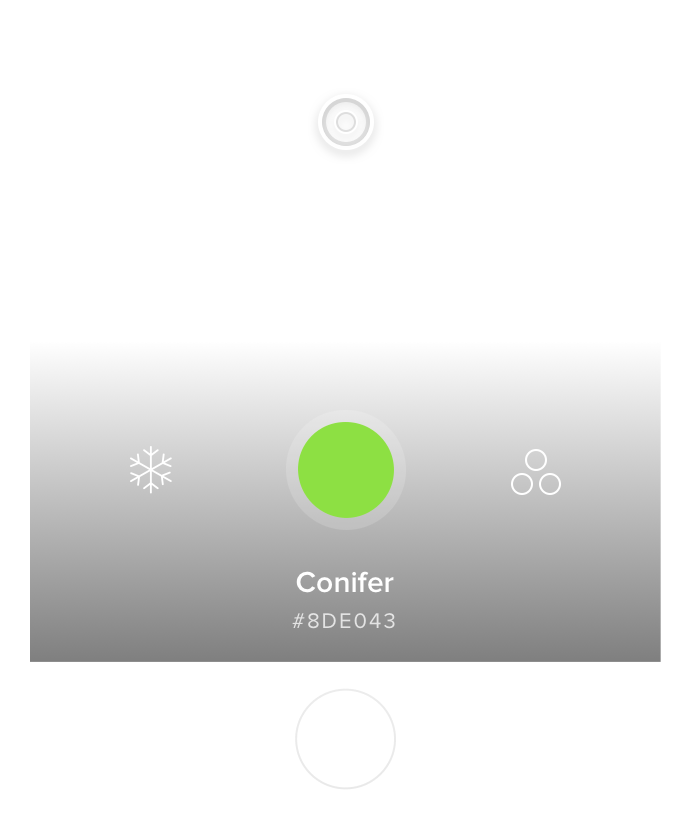
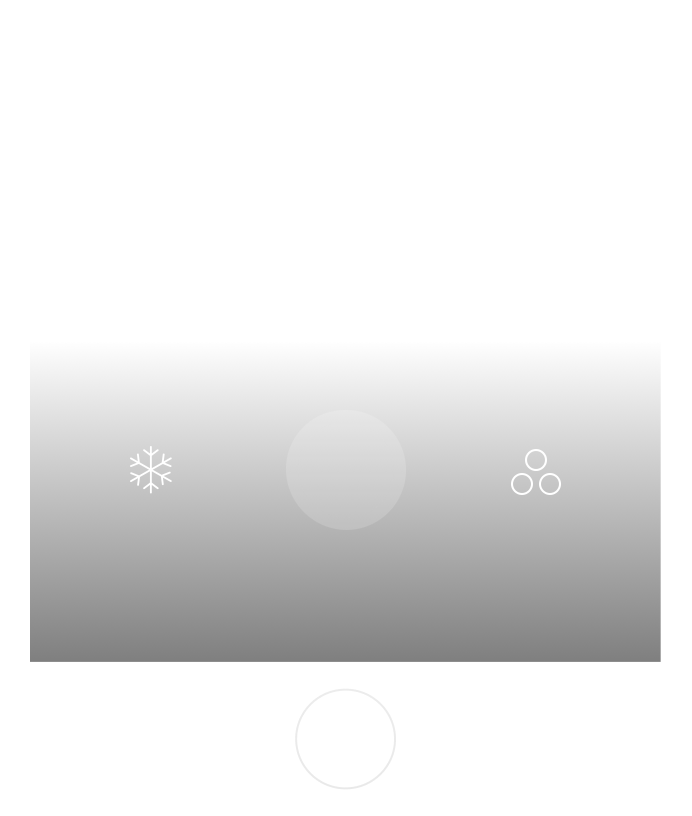
add animation

Changed region(s): [[0.4249, 0.4902, 0.5766, 0.6434], [0.4249, 0.7047, 0.5766, 0.7659], [0.4552, 0.1225, 0.5462, 0.1838]]

diff --git a/css/style.css b/css/style.css
@@ -91,6 +91,58 @@ h2 {
 	position: relative;
 	z-index: 1;
 	top: -50px;
+	width: 346px;
+	margin: 0 auto;
+}
+
+.colorname {
+	position: absolute;
+	font-size: 15px;
+	color: white;
+	font-weight: 400;
+	left: 0;
+	width: 100%;
+	text-align: center;
+	bottom: 116px;
+	height: 15px;
+}
+
+.hex {
+	position: absolute;
+	font-size: 11px;
+	color: white;
+	opacity: 0.75;
+	font-weight: 300;
+	letter-spacing: 1px;
+	left: 0;
+	width: 100%;
+	text-align: center;
+	bottom: 96px;
+	height: 11px;
+}
+
+.picker {
+	background-image: url(../images/picker.png);
+	background-size: contain;
+	background-repeat: no-repeat;
+	position: absolute;
+	height: 30px;
+	width: 30px;
+	left: calc(50% - 15px);
+	top: 50px;
+    transform: translate3d(0px, 0px, 0px);
+    animation: picker-animation 4s 0s ease infinite forwards;
+}
+
+.preview {
+	position: absolute;
+	height: 48px;
+	width: 48px;
+	border-radius: 50%;
+	background: #6fb400;
+	left: calc(50% - 24px);
+	bottom: 154px;
+    animation: preview-animation 4s 0s ease infinite forwards;
 }
 
 .features {
@@ -156,4 +208,190 @@ h2 {
 	font-weight: 300;
 	padding-bottom: 40px;
 	text-align: center;
+}
+
+
+/**
+ * ANIMATION TIME!!!
+ */
+
+@keyframes picker-animation {
+	0%, 25% {
+		transform: translate3d(0, 0, 0);
+	}
+	30%, 55% {
+		transform: translate3d(40px, 60px, 0);
+	}
+	60%, 85% {
+		transform: translate3d(-130px, -5px, 0);
+	}
+	90%, 100% {
+		transform: translate3d(0, 0, 0);
+	}
+}
+
+@keyframes preview-animation {
+	0%, 25% {
+		background-color: #6fb400;
+	}
+	30%, 55% {
+		background-color: #3D5340;
+	}
+	60%, 85% {
+		background-color: #72708A;
+	}
+	90%, 100% {
+		background-color: #6fb400;
+	}
+}
+
+.hex__1, .hex__2, .hex__3 {
+    position: absolute;
+    left: 0;
+    right: 0;
+}
+
+.hex__1 {
+	opacity: 1;
+	visibility: visible;
+    animation: hex__1 4s 0s ease infinite forwards;
+}
+.hex__2 {
+	opacity: 0;
+	visibility: hidden;
+    animation: hex__2 4s 0s ease infinite forwards;
+}
+.hex__3 {
+	opacity: 0;
+	visibility: hidden;
+    animation: hex__3 4s 0s ease infinite forwards;
+}
+
+@keyframes hex__1 {
+	0%, 25% {
+		opacity: 1;
+		visibility: visible;
+	}
+	30%, 85% {
+		opacity: 0;
+		visibility: hidden;
+	}
+	90%, 100% {
+		opacity: 1;
+		visibility: visible;
+	}
+}
+
+@keyframes hex__2 {
+	0%, 25% {
+		opacity: 0;
+		visibility: hidden;
+	}
+	30%, 55% {
+		opacity: 1;
+		visibility: visible;
+	}
+	60%, 85% {
+		opacity: 0;
+		visibility: hidden;
+	}
+	90%, 100% {
+		opacity: 0;
+		visibility: hidden;
+	}
+}
+
+@keyframes hex__3 {
+	0%, 25% {
+		opacity: 0;
+		visibility: hidden;
+	}
+	30%, 55% {
+		opacity: 0;
+		visibility: hidden;
+	}
+	60%, 85% {
+		opacity: 1;
+		visibility: visible;
+	}
+	90%, 100% {
+		opacity: 0;
+		visibility: hidden;
+	}
+}
+
+
+.colorname__1, .colorname__2, .colorname__3 {
+    position: absolute;
+    left: 0;
+    right: 0;
+}
+
+.colorname__1 {
+	opacity: 1;
+	visibility: visible;
+    animation: colorname__1 4s 0s ease infinite forwards;
+}
+.colorname__2 {
+	opacity: 0;
+	visibility: hidden;
+    animation: colorname__2 4s 0s ease infinite forwards;
+}
+.colorname__3 {
+	opacity: 0;
+	visibility: hidden;
+    animation: colorname__3 4s 0s ease infinite forwards;
+}
+
+@keyframes colorname__1 {
+	0%, 25% {
+		opacity: 1;
+		visibility: visible;
+	}
+	30%, 85% {
+		opacity: 0;
+		visibility: hidden;
+	}
+	90%, 100% {
+		opacity: 1;
+		visibility: visible;
+	}
+}
+
+@keyframes colorname__2 {
+	0%, 25% {
+		opacity: 0;
+		visibility: hidden;
+	}
+	30%, 55% {
+		opacity: 1;
+		visibility: visible;
+	}
+	60%, 85% {
+		opacity: 0;
+		visibility: hidden;
+	}
+	90%, 100% {
+		opacity: 0;
+		visibility: hidden;
+	}
+}
+
+@keyframes colorname__3 {
+	0%, 25% {
+		opacity: 0;
+		visibility: hidden;
+	}
+	30%, 55% {
+		opacity: 0;
+		visibility: hidden;
+	}
+	60%, 85% {
+		opacity: 1;
+		visibility: visible;
+	}
+	90%, 100% {
+		opacity: 0;
+		visibility: hidden;
+	}
 }

diff --git a/index.html b/index.html
@@ -18,6 +18,19 @@
 
 		<div class="iphone-container">
 			<img class="phone" src="images/iphone-alt.png" alt="" height="408">
+			
+			<div class="picker"></div>
+			<div class="preview"></div>
+			<p class="colorname">
+				<span class="colorname__1">Limeade</span>
+				<span class="colorname__2">Gray Asparagus</span>
+				<span class="colorname__3">Storm Gray</span>
+			</p>
+			<p class="hex">
+				<span class="hex__1">#6FB400</span>
+				<span class="hex__2">#3D5340</span>
+				<span class="hex__3">#72708A</span>
+			</p>
 		</div>
 	</div>
 
